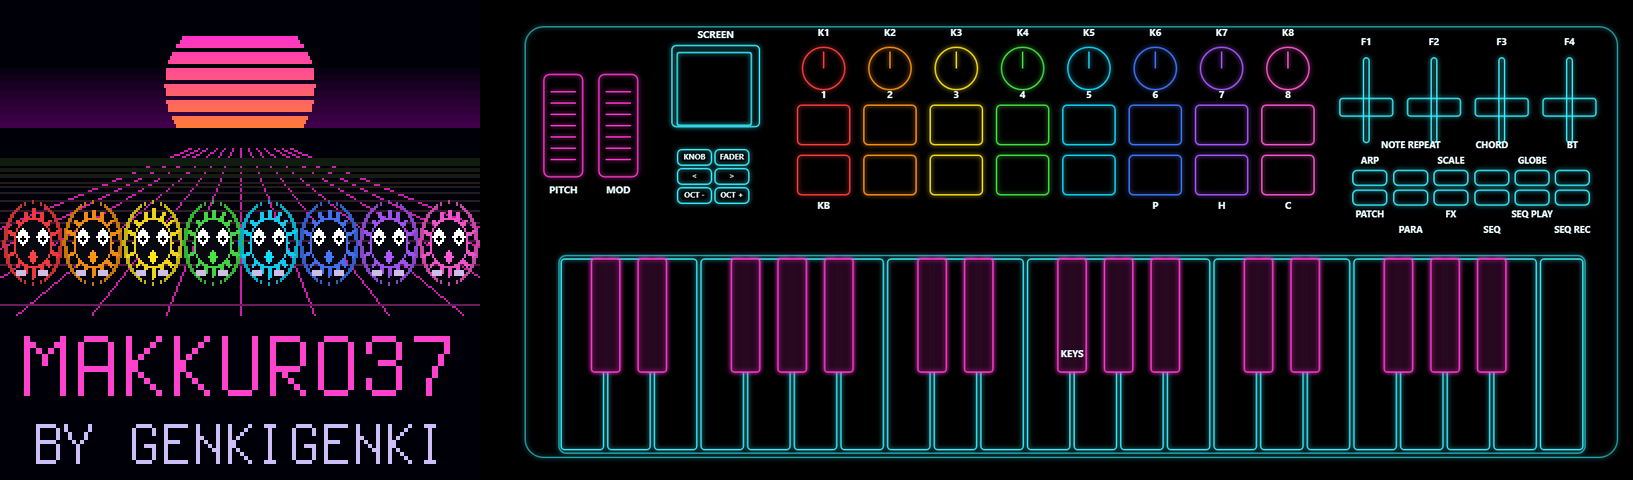
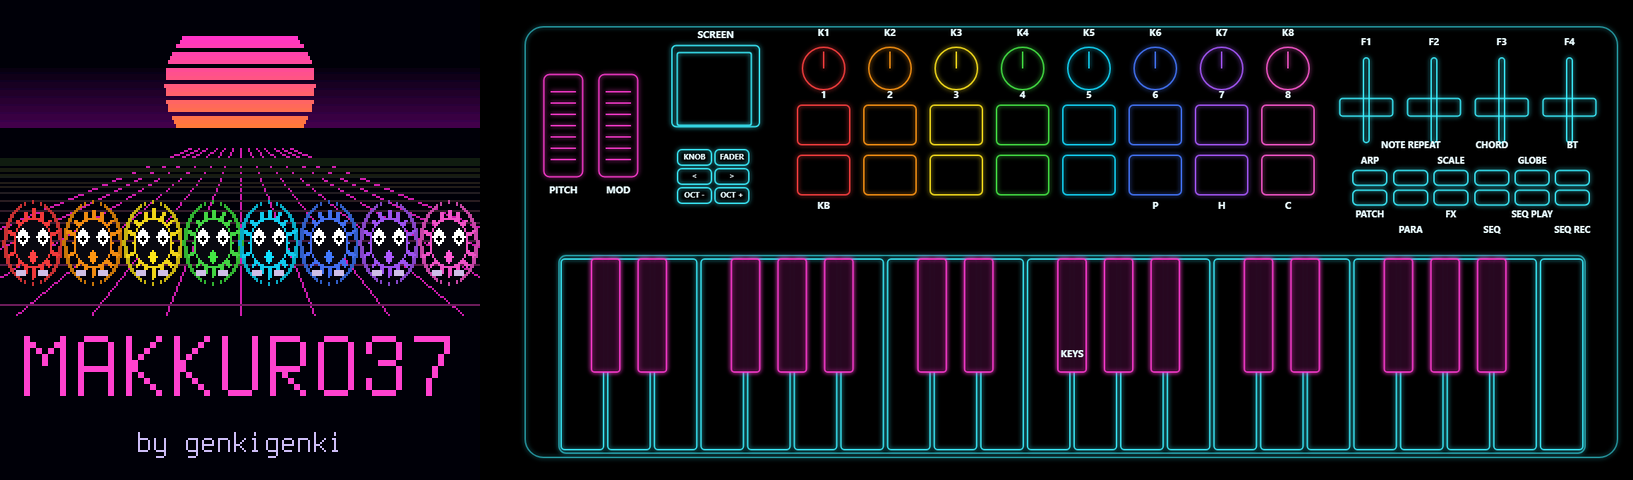
Boot screen: the credit smaller

Changed region(s): [[0.0, 0.875, 0.2811, 0.9688]]

diff --git a/firmware/src/draw.c b/firmware/src/draw.c
@@ -733,7 +733,7 @@ static void boot_frame(uint32_t t)
             int32_t k2 = clamp((int32_t)(t - 1300u) * 256 / 400, 0, 256);
             cv_rect(0, 158, 240, 82, RGB(4, 0, 12));     /* (a calm band under the name) */
             text_c(120, 162, &FONT_XL, "MAKKURO37", RGB(255 * k2 >> 8, 64 * k2 >> 8, 200 * k2 >> 8));
-            text_c(120, 208, &FONT_L, "by genkigenki", RGB(200 * k2 >> 8, 190 * k2 >> 8, 240 * k2 >> 8));
+            text_c(120, 214, &FONT_S, "by genkigenki", RGB(200 * k2 >> 8, 190 * k2 >> 8, 240 * k2 >> 8));
         }
         cv_oy = 0;
         cv_blit(0, (uint32_t)y0);
